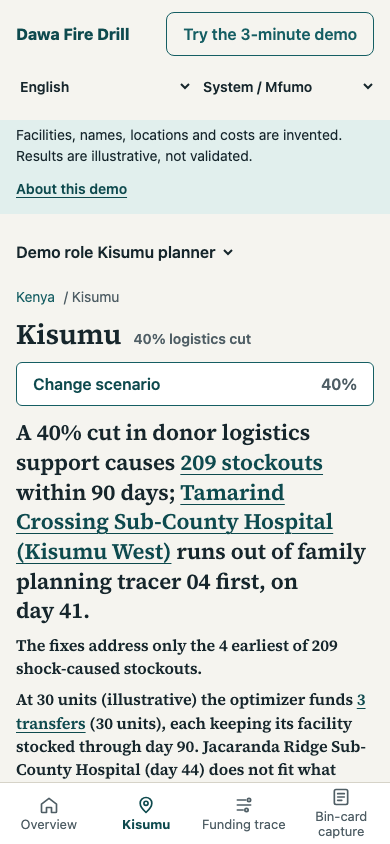
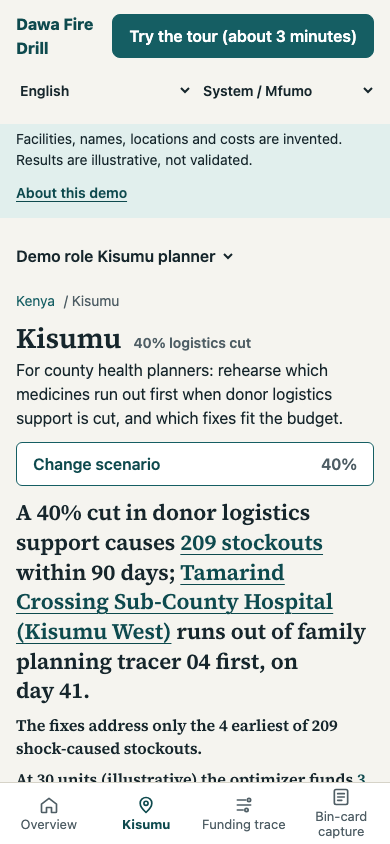
docs: recapture README screenshots and use the tour, counts row and list wording

diff --git a/README.md b/README.md
@@ -12,11 +12,11 @@ When donor logistics support or a cash release is cut, county health planners ne
 
 ## What it does
 
-The three-minute guided demo walks through the same screens a planner uses. The figures below are what the app shows for seed 42 and county generator version 5.
+The page is for county health planners rehearsing which medicines run out first when donor logistics support is cut, and which fixes fit the budget. The guided tour (about 3 minutes) starts on the national overview, walks through the same screens a planner uses and can return you to the view you started from. The figures below are what the app shows for seed 42 and county generator version 5.
 
 1. **National overview.** Kenya's 47 counties on a schematic grid (deliberately not a boundary map) with synthetic planning proxies. Kisumu is the facility-level pilot.
-2. **Pick a shock.** Four prepared scenarios cut donor logistics support by 0, 20, 40 or 100%. At 40%, the verdict reads: *“A 40% cut in donor logistics support causes 209 stockouts within 90 days; Tamarind Crossing Sub-County Hospital (Kisumu West) runs out of family planning tracer 04 first, on day 41.”* 211 stockouts happen in total; 2 are at facilities already short before the shock, and the app keeps them apart. Facilities split 10 Critical, 18 Watch and 12 Later (status is set by each facility's first stockout in the run). “Compare” flips to the no-shock run.
-3. **Watch it break.** A day scrubber (week steps, play, keyboard) shows facilities out per area across the 90-day run. At day 41 the run has 3 stockouts across 3 facilities; at day 90, 211 across all 40.
+2. **Pick a shock.** Four prepared scenarios cut donor logistics support by 0, 20, 40 or 100%. At 40%, the verdict reads: *“A 40% cut in donor logistics support causes 209 stockouts within 90 days; Tamarind Crossing Sub-County Hospital (Kisumu West) runs out of family planning tracer 04 first, on day 41.”* A compact row under the verdict reads “211 stockouts = 209 caused by the shock + 2 already short before it”, and the app keeps the two groups apart. Facilities split 10 Critical, 18 Watch and 12 Later (status is set by each facility's first stockout in the run). “Compare” flips to the no-shock run. Under the verdict, “Play the timeline” and “Move the budget” lead to the next step.
+3. **Watch it break.** A day scrubber (week steps, play, keyboard) shows facilities out per area across the 90-day run. At day 41 the run has 3 stockouts across 3 facilities; at day 90, 211 across all 40. The stockout order can be filtered by area and medicine and says which part of the list is showing; the facilities table has name search, a results count and a visible sort direction.
 4. **Cheapest fix within a budget.** OR-Tools compares a transfer from a nearby facility (10 illustrative cost units) with an emergency delivery (50 units) for each covered stockout. The page says plainly that the options cover only the 4 earliest of the 209 shock-caused stockouts. At 30 units the optimizer funds 3 transfers and cuts the fourth (Jacaranda Ridge Sub-County Hospital, day 44) because it no longer fits; at 100 units it funds all 4 for 40 units; at 5 units nothing fits. The budget slider re-ranks live, and “Why these picks?” restates the optimizer's own result.
 5. **Where the money stalls.** One synthetic funding flow shows 100,000 KES approved but not released after 90 days, with the stalled stage marked.
 6. **Honest edges.** At 100% no listed transfer can arrive in time: they arrive from day 39, but their stockouts happen by day 26, and the page says so instead of showing an empty list. Loading, in-flight, failed and offline states are all explicit.
@@ -24,7 +24,7 @@ The three-minute guided demo walks through the same screens a planner uses. The 
 
 [How this works](docs/how-it-works.md) states exactly what the model compares, replays and leaves out.
 
-English and Swahili (the Swahili is an unreviewed translation), light and dark themes, a guided demo with keyboard support, and a link that recreates the view (shock, budget, tab and day are in the URL).
+English and Swahili (the Swahili is an unreviewed translation), light and dark themes, a guided tour with keyboard support, and a link that recreates the view (shock, budget, tab and day are in the URL).
 
 | | |
 | --- | --- |
@@ -85,7 +85,7 @@ docker compose -f infra/compose.yaml exec -T api python -m dawa_api.ingestion.se
 bash scripts/demo-up.sh
 ```
 
-Open `http://localhost:3300/` and choose **Try the 3-minute demo**. Stop with:
+Open `http://localhost:3300/` and choose **Try the tour (about 3 minutes)**. Stop with:
 
 ```sh
 bash scripts/demo-down.sh
